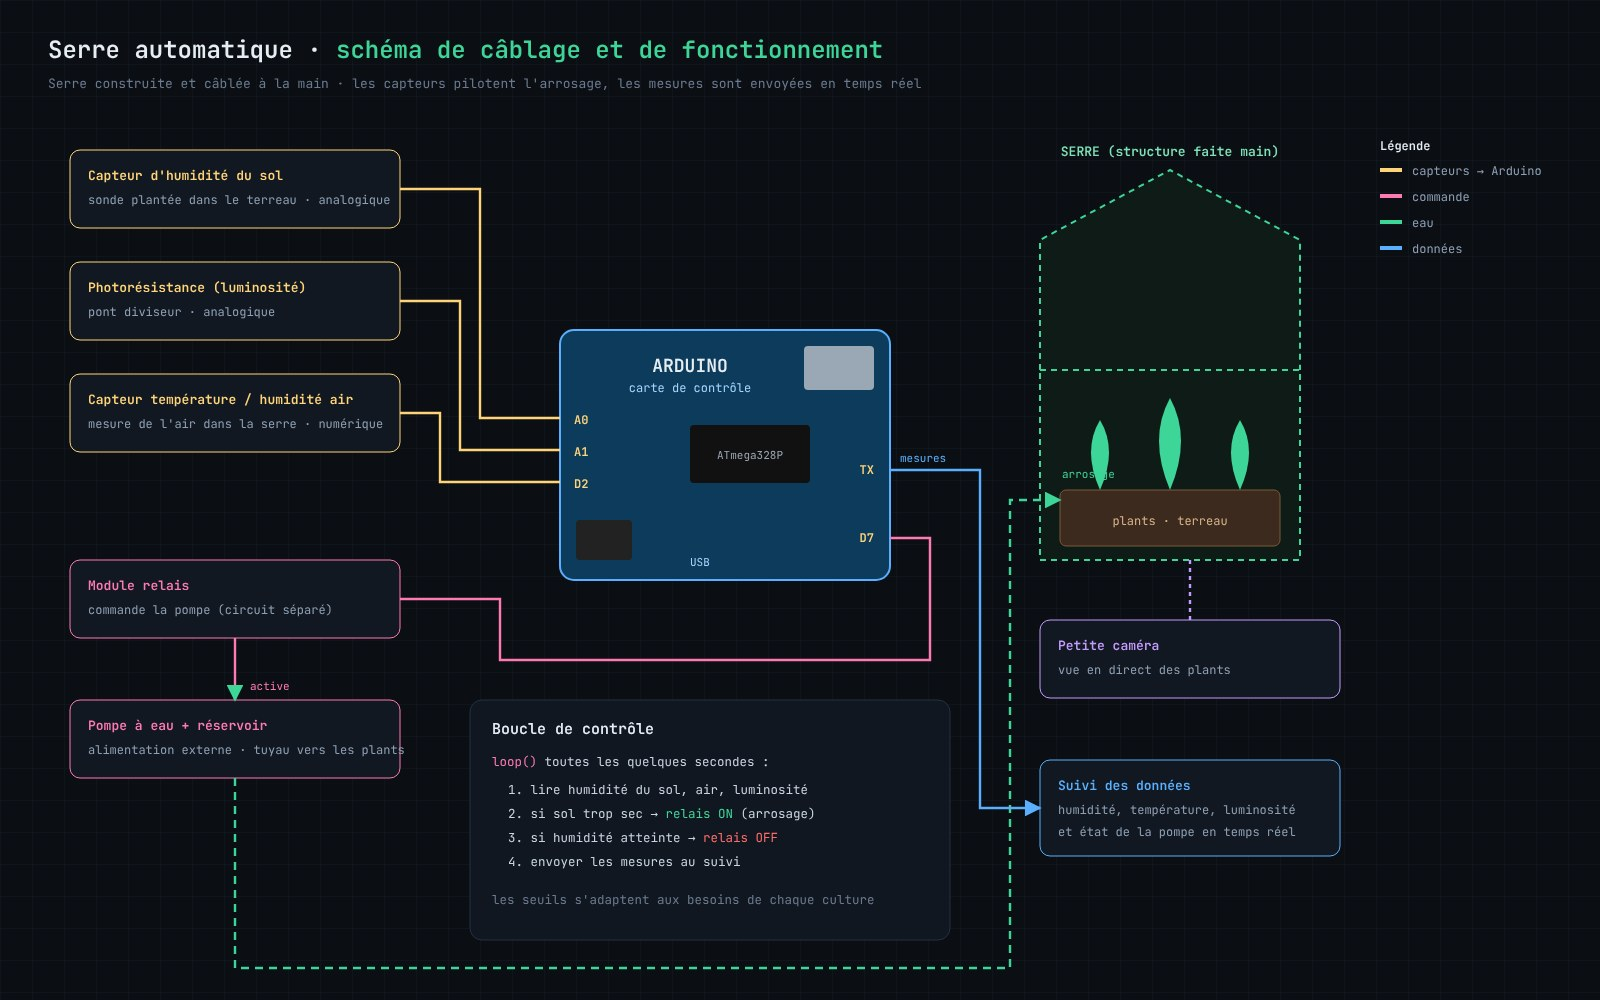
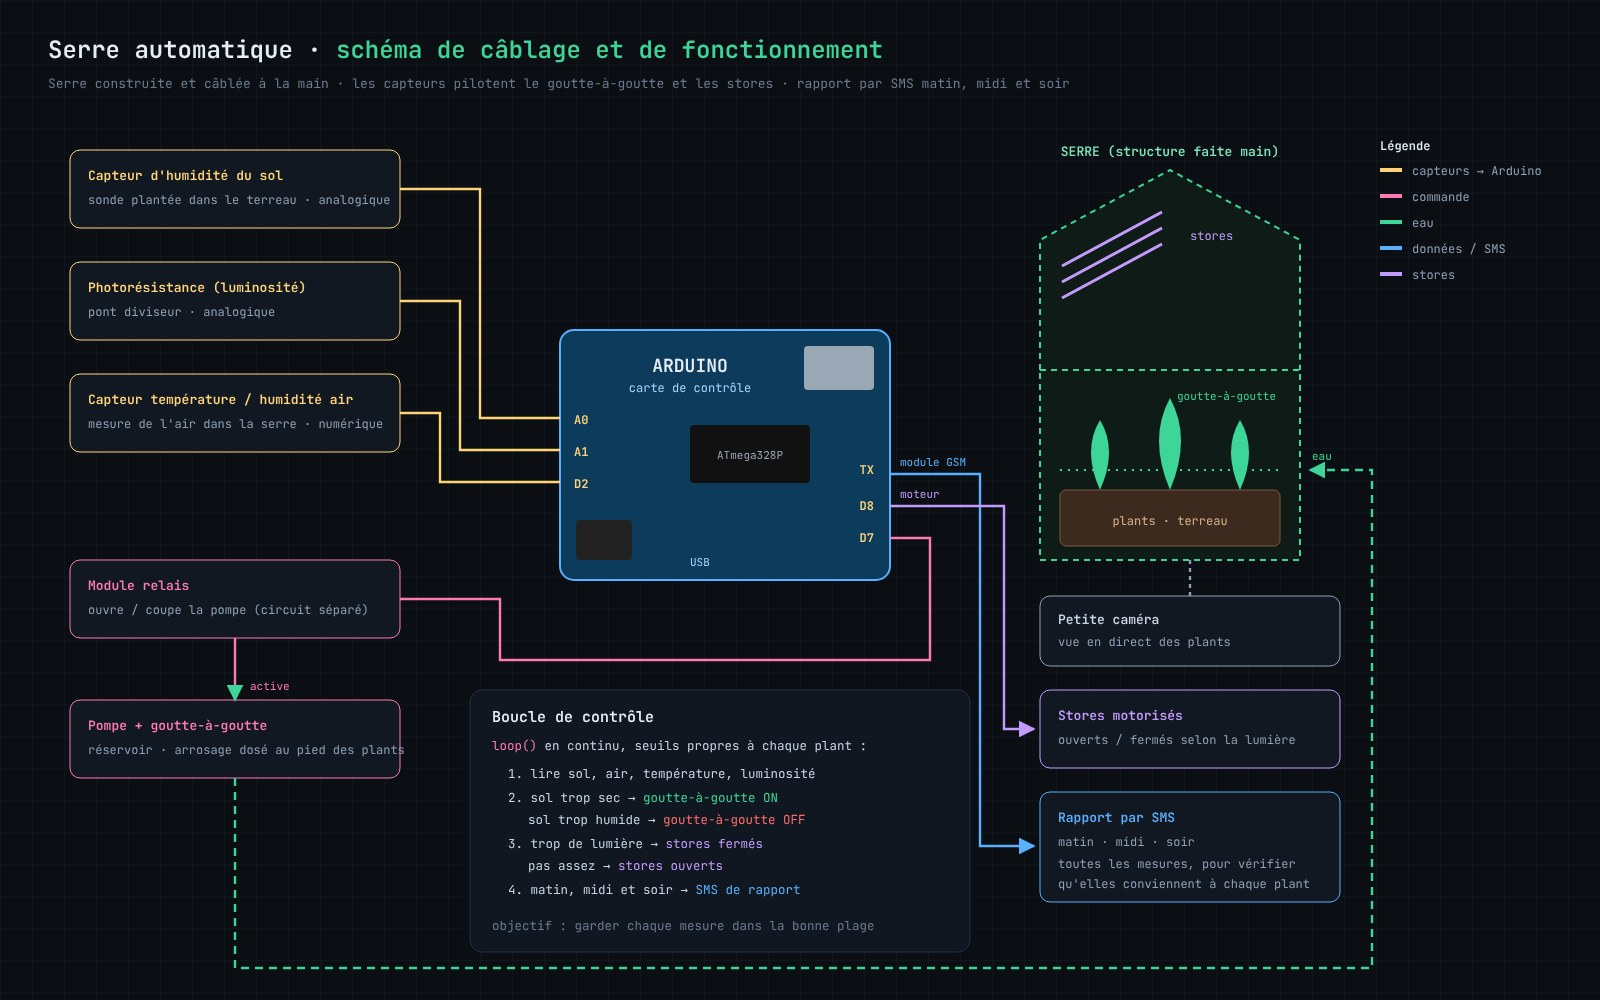
Serre : goutte-à-goutte, stores motorisés et rapport SMS
Claude-Session: https://claude.ai/code/session_01DD4vZ6mK83dNvP6deEViQg

diff --git a/index.html b/index.html
@@ -587,13 +587,13 @@ footer .wrap{padding-block:24px;display:flex;flex-wrap:wrap;justify-content:spac
             <div class="gauge"><span>humidité</span><i><u></u></i><b>63 %</b></div>
             <div class="gauge"><span>température</span><i><u></u></i><b>24 °C</b></div>
             <div class="gauge"><span>luminosité</span><i><u></u></i><b>760 lx</b></div>
-            <div class="pump"><span class="led"></span>arrosage automatique<em>veille</em></div>
+            <div class="pump"><span class="led"></span>goutte-à-goutte<em>veille</em></div>
           </div>
           <div class="card-body">
             <span class="kind">IoT · Arduino</span>
             <h3>Serre automatique</h3>
-            <p>Capteurs d'humidité, de température et de luminosité qui pilotent l'arrosage, avec envoi des données en temps réel.</p>
-            <div class="tags"><span class="tag">Arduino</span><span class="tag">capteurs</span><span class="tag">temps réel</span></div>
+            <p>Capteurs qui pilotent le goutte-à-goutte et les stores, avec un rapport par SMS matin, midi et soir.</p>
+            <div class="tags"><span class="tag">Arduino</span><span class="tag">capteurs</span><span class="tag">SMS</span><span class="tag">automatisme</span></div>
             <span class="more">Voir le projet <span>→</span></span>
           </div>
         </a>
@@ -1015,11 +1015,12 @@ footer .wrap{padding-block:24px;display:flex;flex-wrap:wrap;justify-content:spac
         ['Reste à payer', 'assets/media/tn-reste-a-payer.jpg'], ['CA par destination', 'assets/media/tn-ca-destination.jpg']] },
     soc: { kind: 'Cybersécurité · autoformation', title: 'Mes entraînements cyber', desc: "Challenges Root Me et TryHackMe, labo VirtualBox et OSINT, en route vers le métier d'analyste SOC.", tags: ['Root Me', 'TryHackMe', 'VirtualBox', 'OSINT'] },
     serre: { kind: 'IoT · Arduino', title: 'Serre automatique',
-      desc: "Une serre construite et câblée entièrement à la main, sans kit. Des capteurs mesurent l'humidité du sol et de l'air, la température et la luminosité ; l'Arduino déclenche l'arrosage quand la terre est trop sèche et envoie les mesures en temps réel. Une petite caméra permet de surveiller les plants à distance.",
+      desc: "Une serre construite et câblée entièrement à la main, sans kit. Des capteurs mesurent en continu l'humidité du sol et de l'air, la température et la luminosité, et l'Arduino agit pour garder chaque mesure dans la bonne plage pour chaque plant : il règle le goutte-à-goutte et ouvre ou ferme les stores. Un rapport part par SMS le matin, le midi et le soir, et une petite caméra permet de surveiller les plants.",
       facts: [['Capteurs', 'Humidité du sol, température et humidité de l\'air, luminosité'],
-        ['Action', 'Module relais qui commande une pompe et son réservoir, selon des seuils adaptés à chaque culture'],
-        ['Suivi', 'Mesures et état de l\'arrosage envoyés en temps réel, caméra pour voir les plants']],
-      tags: ['Arduino', 'C / C++', 'capteurs', 'électronique', 'temps réel'], url: 'serre-automatique · schéma',
+        ['Arrosage', 'Goutte-à-goutte piloté par relais : il s\'active quand la terre est trop sèche et se coupe quand elle est trop humide'],
+        ['Lumière', 'Stores motorisés qui s\'ouvrent ou se ferment quand la luminosité est trop faible ou trop forte'],
+        ['Suivi', 'Rapport par SMS matin, midi et soir pour vérifier que les mesures conviennent à chaque plant, caméra pour voir les plants']],
+      tags: ['Arduino', 'C / C++', 'capteurs', 'GSM / SMS', 'électronique', 'automatisme'], url: 'serre-automatique · schéma',
       pages: [['Schéma de câblage', 'assets/media/serre-schema.jpg']] },
     resto: { kind: 'Site web · projet de cours ESGI', title: 'Le Comptoir des Saveurs',
       desc: "Site vitrine one page d'un restaurant coréen raffiné, réalisé pour le TP noté du module HTML & CSS. Toute la mise en page est codée à la main, sans framework.",
